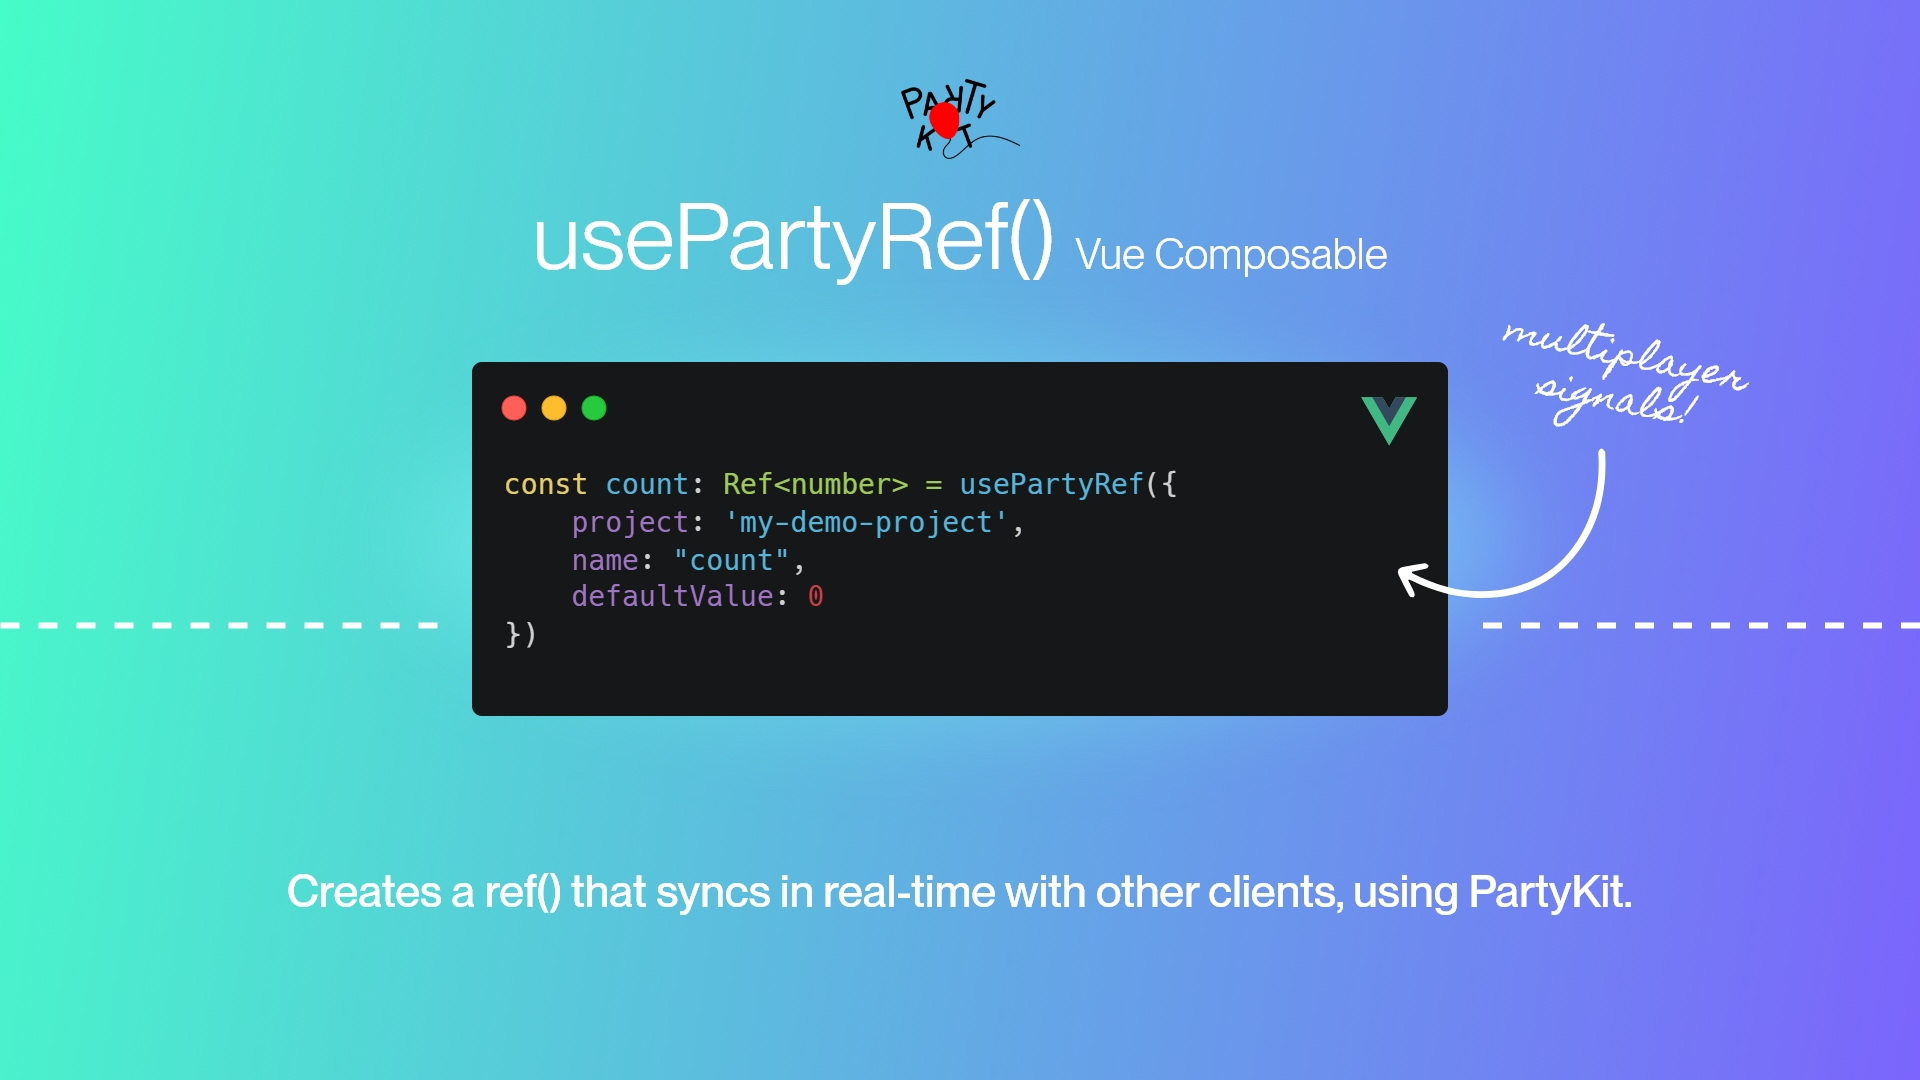
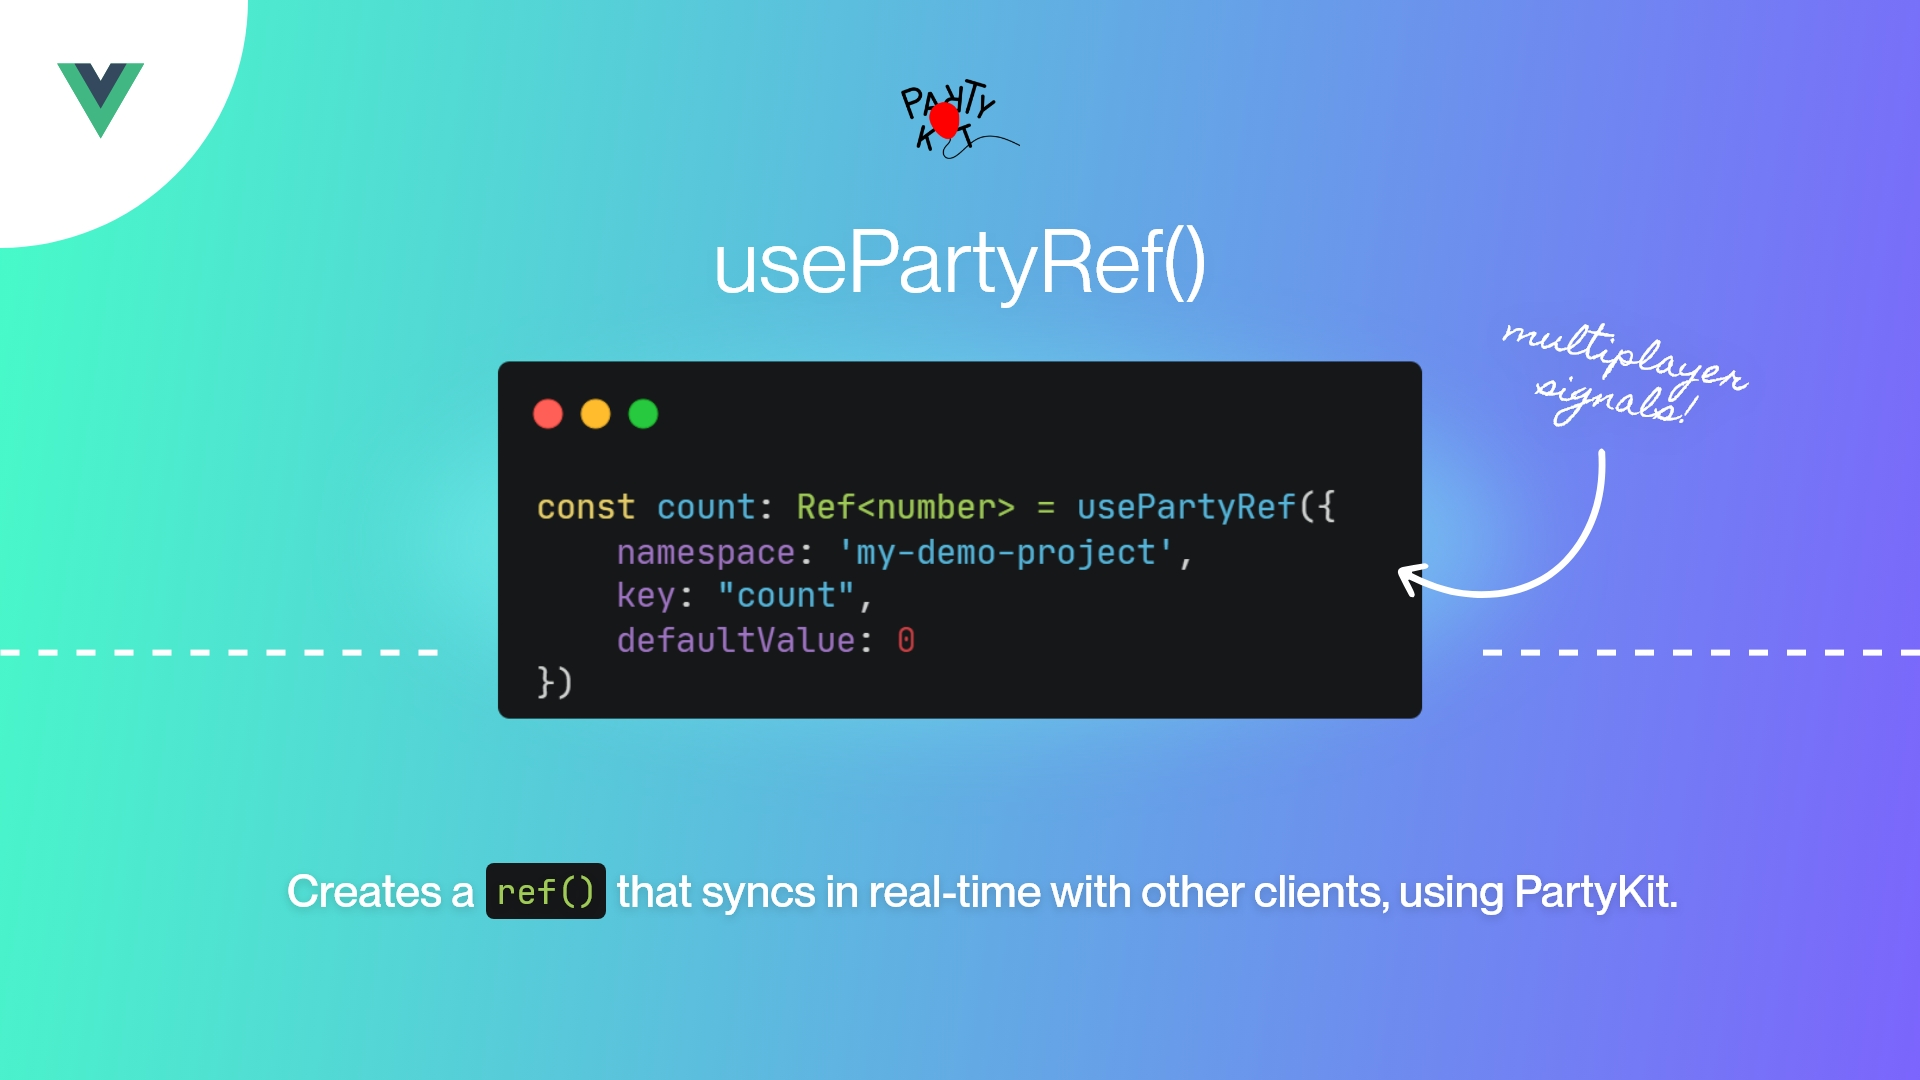
feat: updated config schema to use namespace/key as naming convention

diff --git a/src/usePartyRef.ts b/src/usePartyRef.ts
@@ -4,10 +4,10 @@ import PartySocket from "partysocket"
 interface PartyRefConfig<T> {
 
     // Creates a namespace to keep your data separate from other projects, such as "my-project". Try to make this as unique as possible to avoid conflicts with other projects.
-    project: string,
+    namespace: string,
 
     // The name of the variable, such as "count".
-    name: string,
+    key: string,
 
     // The initial value of the ref, if it's never been set before.
     defaultValue: T
@@ -47,7 +47,7 @@ export default function usePartyRef<T>(config: PartyRefConfig<T>): Ref<T> {
         // Initialize the connection
         connection = new PartySocket({
             host: config.host ?? (isDevelopment() ? "localhost:1999" : "https://usepartyref.marchantweb.partykit.dev"),
-            room: config.project
+            room: config.namespace
         })
 
         // Listen for incoming updates from other clients
@@ -58,7 +58,10 @@ export default function usePartyRef<T>(config: PartyRefConfig<T>): Ref<T> {
         // Watch the local data for changes and send it to other clients
         watch(localData, (newValue) => {
             if (connection) {
-                connection.send(JSON.stringify({data: newValue}))
+                connection.send(JSON.stringify({
+                    key: config.namespace,
+                    data: newValue
+                }))
             }
         })
     })

diff --git a/playground/src/App.vue b/playground/src/App.vue
@@ -3,8 +3,8 @@ import {usePartyRef} from '../../src/index'
 import {computed, ComputedRef, Ref} from "vue";
 
 const count: Ref<number> = usePartyRef({
-  project: "participants",
-  name: "count",
+  namespace: "usepartyref-playground",
+  key: "count",
   defaultValue: 0
 })
 

diff --git a/README.md b/README.md
@@ -33,8 +33,8 @@ const count: Ref<number> = ref(0)
 
 // Use usePartyRef() for shared state
 const sharedCount: Ref<number> = usePartyRef({
-    project: 'my-project', // Choose something unique
-    name: "count",
+    namespace: 'my-project', // Choose something unique
+    key: "count",
     defaultValue: 0
 })
 
@@ -63,8 +63,8 @@ By default, `usePartyRef` uses the PartyKit server hosted on the package author'
 
 ```ts
 const count: Ref<number> = usePartyRef({
-    project: 'my-project',
-    name: "count",
+    namespace: 'my-project',
+    key: "count",
     defaultValue: 0,
     host: '[projectname].[username].partykit.dev' // server:deploy will give you this URL
 })
